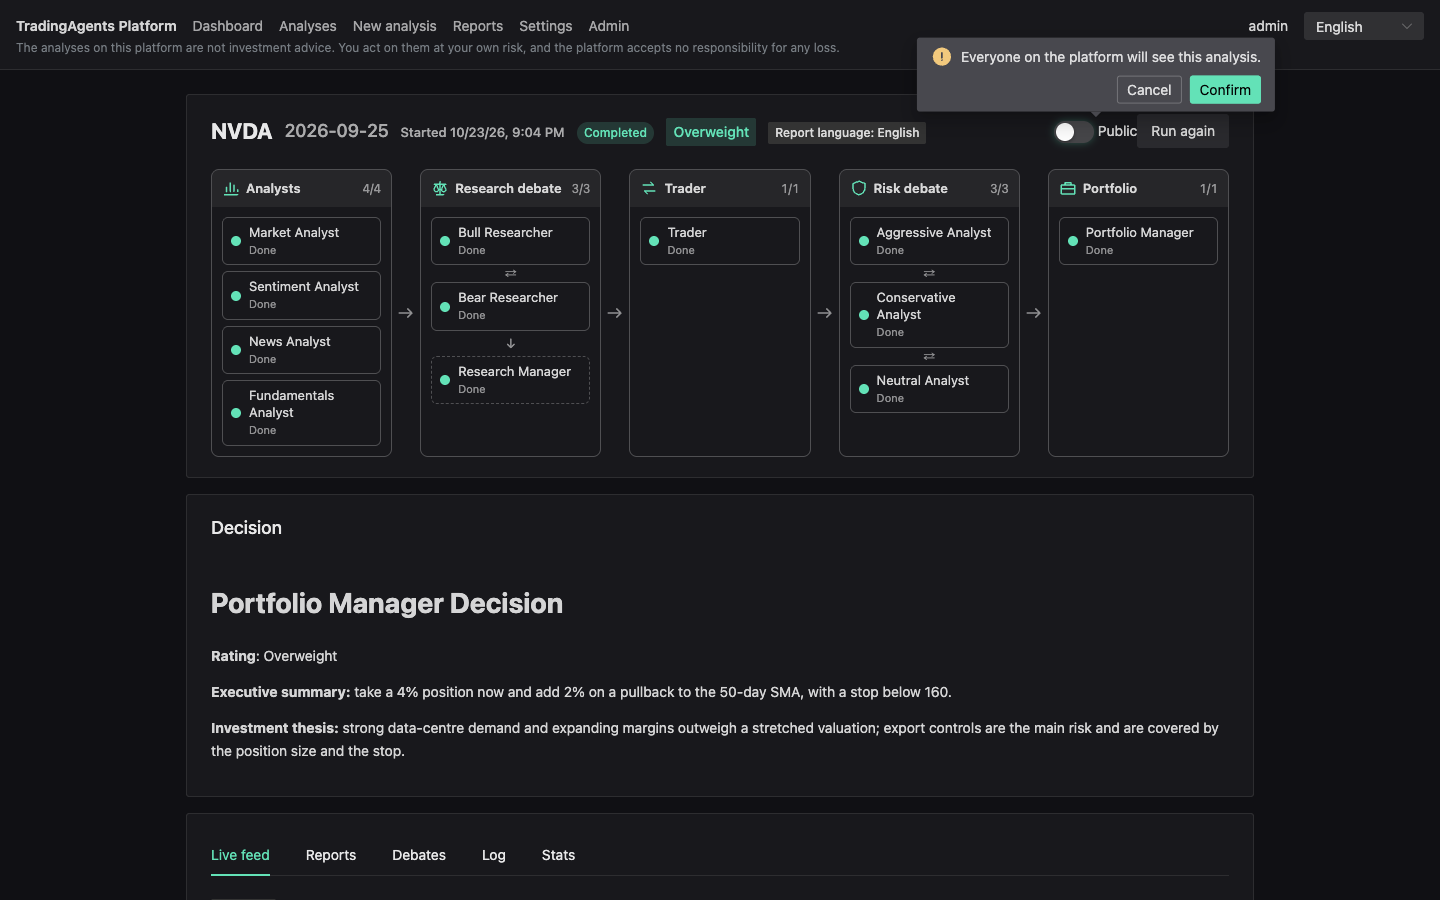
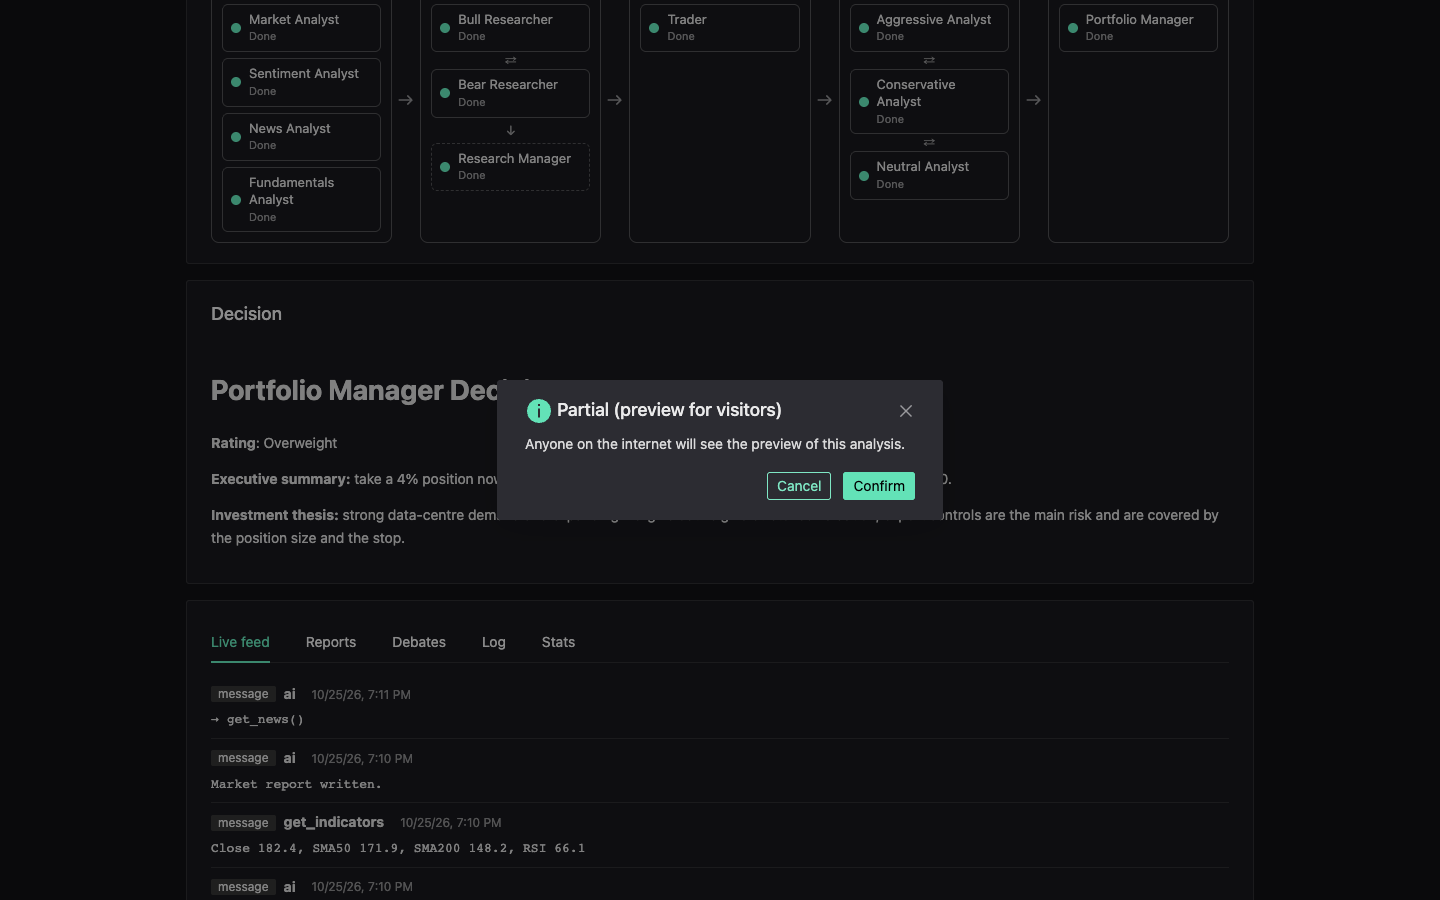
Address R1-2: Retake the run-share screenshot

diff --git a/e2e/screenshots/share.shot.ts b/e2e/screenshots/share.shot.ts
@@ -1,4 +1,5 @@
 import { expect, test } from '@playwright/test'
+import { visibilitySelect } from '../tests/support'
 import { replayedRun } from './runs'
 import { shot } from './support'
 
@@ -7,7 +8,7 @@ test('run detail with the share confirmation', async ({ page, request }) => {
   const id = await replayedRun(request, 'NVDA', '2026-09-25')
 
   await page.goto(`/analyses/${id}`)
-  await page.locator('.n-select').click()
+  await visibilitySelect(page).click()
   await page.getByText('Partial (preview for visitors)').click()
   await expect(
     page.getByText('Anyone on the internet will see the preview of this analysis.'),
